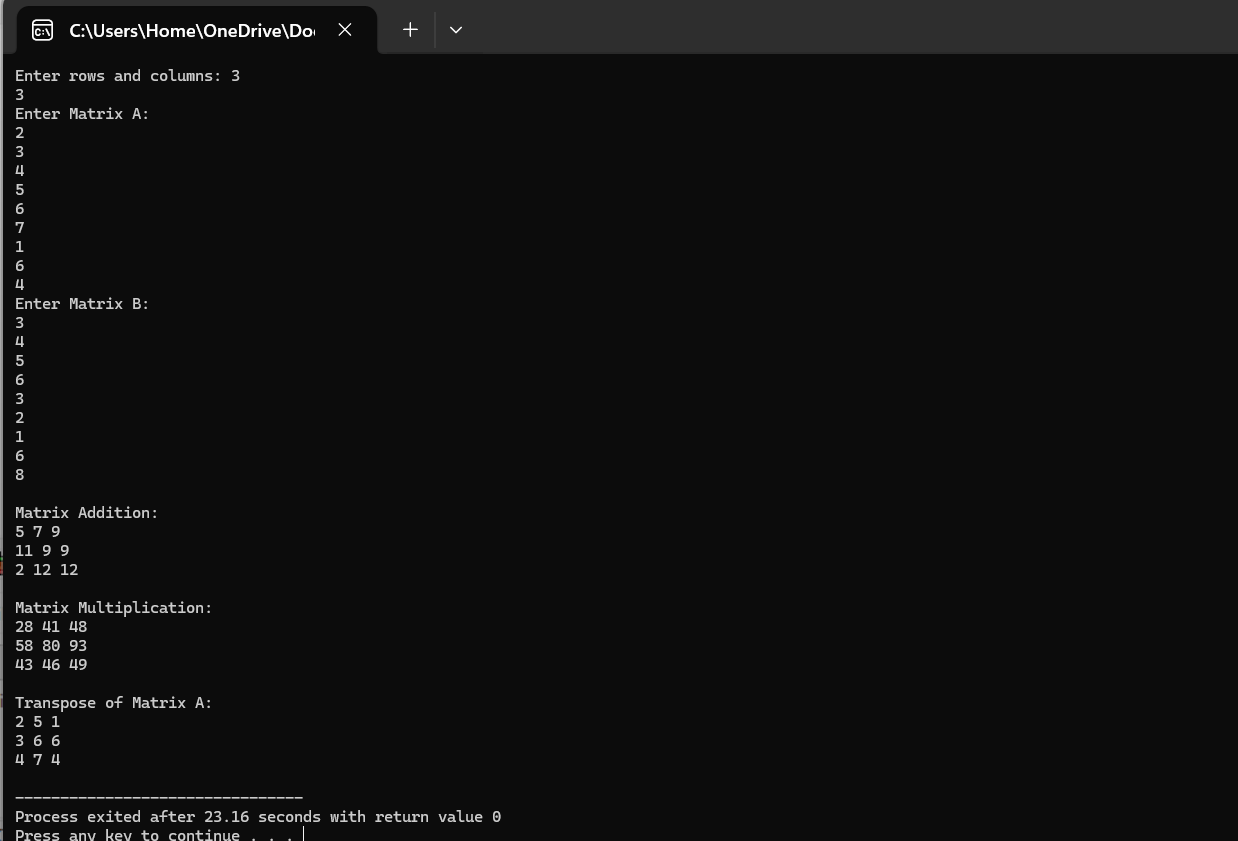
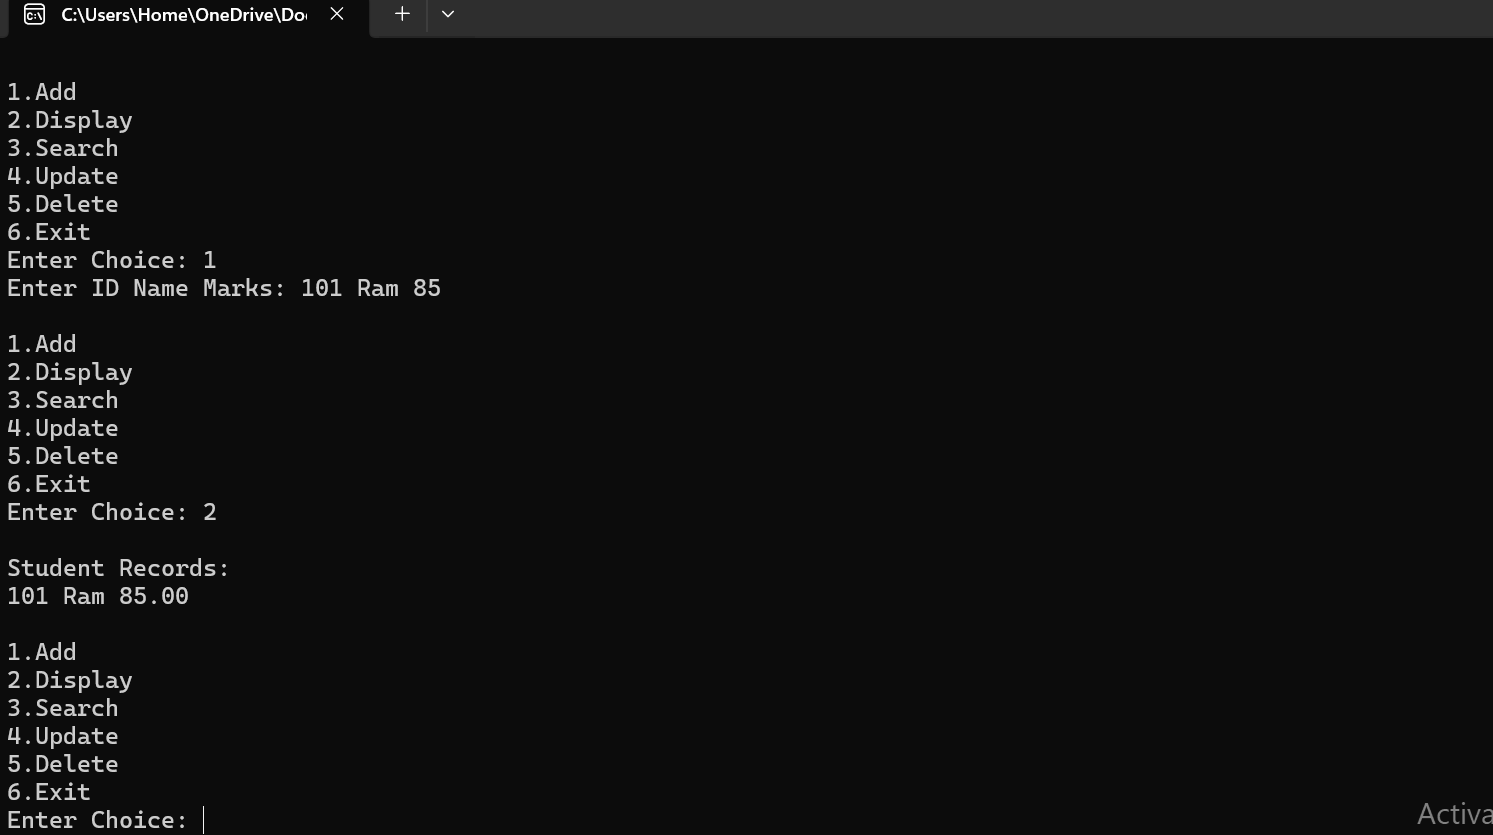
Add files via upload

Changed region(s): [[0.0, 0.0, 1.0, 1.0], [0.9515, 0.9653, 1.0, 0.9964]]

diff --git a/StudentManagement.c b/StudentManagement.c
@@ -1,0 +1,116 @@
+#include <stdio.h>
+#include <stdlib.h>
+
+struct Student
+{
+    int id;
+    char name[20];
+    float marks;
+};
+
+int main()
+{
+    struct Student s;
+    FILE *fp, *temp;
+    int choice, id, found;
+
+    while(1)
+    {
+        printf("\n1.Add\n2.Display\n3.Search\n4.Update\n5.Delete\n6.Exit\n");
+        printf("Enter Choice: ");
+        scanf("%d", &choice);
+
+        switch(choice)
+        {
+            case 1:
+                fp = fopen("student.txt", "ab");
+                printf("Enter ID Name Marks: ");
+                scanf("%d %s %f", &s.id, s.name, &s.marks);
+                fwrite(&s, sizeof(s), 1, fp);
+                fclose(fp);
+                break;
+
+            case 2:
+                fp = fopen("student.txt", "rb");
+                printf("\nStudent Records:\n");
+                while(fread(&s, sizeof(s), 1, fp))
+                {
+                    printf("%d %s %.2f\n", s.id, s.name, s.marks);
+                }
+                fclose(fp);
+                break;
+
+            case 3:
+                printf("Enter ID to Search: ");
+                scanf("%d", &id);
+
+                fp = fopen("student.txt", "rb");
+                found = 0;
+
+                while(fread(&s, sizeof(s), 1, fp))
+                {
+                    if(s.id == id)
+                    {
+                        printf("%d %s %.2f\n", s.id, s.name, s.marks);
+                        found = 1;
+                    }
+                }
+
+                if(found == 0)
+                    printf("Record Not Found!");
+
+                fclose(fp);
+                break;
+
+            case 4:
+                printf("Enter ID to Update: ");
+                scanf("%d", &id);
+
+                fp = fopen("student.txt", "rb");
+                temp = fopen("temp.txt", "wb");
+
+                while(fread(&s, sizeof(s), 1, fp))
+                {
+                    if(s.id == id)
+                    {
+                        printf("Enter New Name and Marks: ");
+                        scanf("%s %f", s.name, &s.marks);
+                    }
+                    fwrite(&s, sizeof(s), 1, temp);
+                }
+
+                fclose(fp);
+                fclose(temp);
+                remove("student.txt");
+                rename("temp.txt", "student.txt");
+                break;
+
+            case 5:
+                printf("Enter ID to Delete: ");
+                scanf("%d", &id);
+
+                fp = fopen("student.txt", "rb");
+                temp = fopen("temp.txt", "wb");
+
+                while(fread(&s, sizeof(s), 1, fp))
+                {
+                    if(s.id != id)
+                        fwrite(&s, sizeof(s), 1, temp);
+                }
+
+                fclose(fp);
+                fclose(temp);
+                remove("student.txt");
+                rename("temp.txt", "student.txt");
+                break;
+
+            case 6:
+                exit(0);
+
+            default:
+                printf("Invalid Choice!");
+        }
+    }
+
+    return 0;
+}